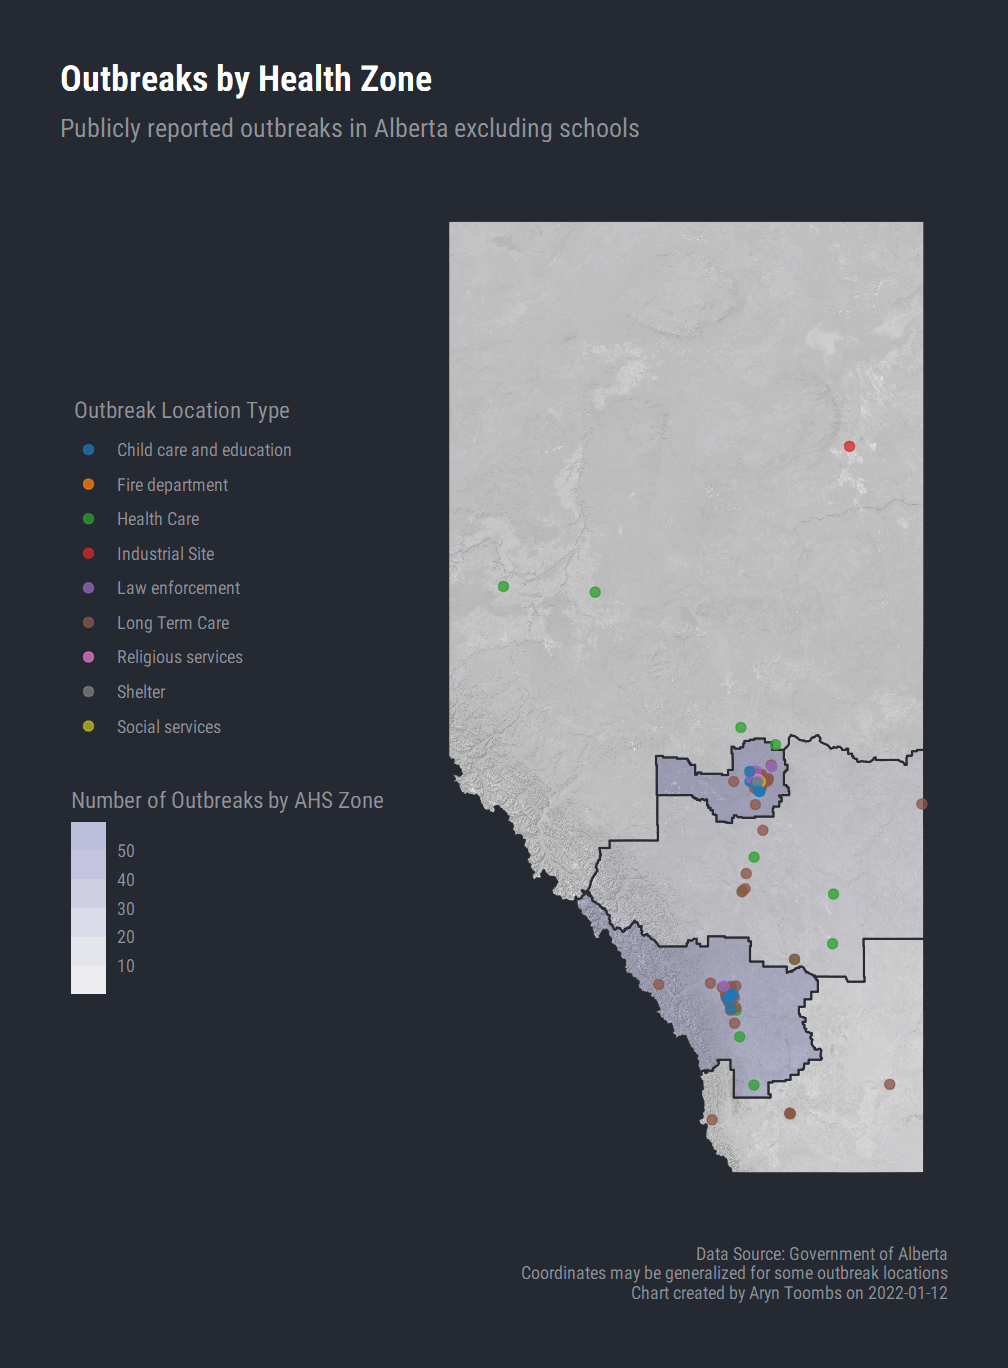
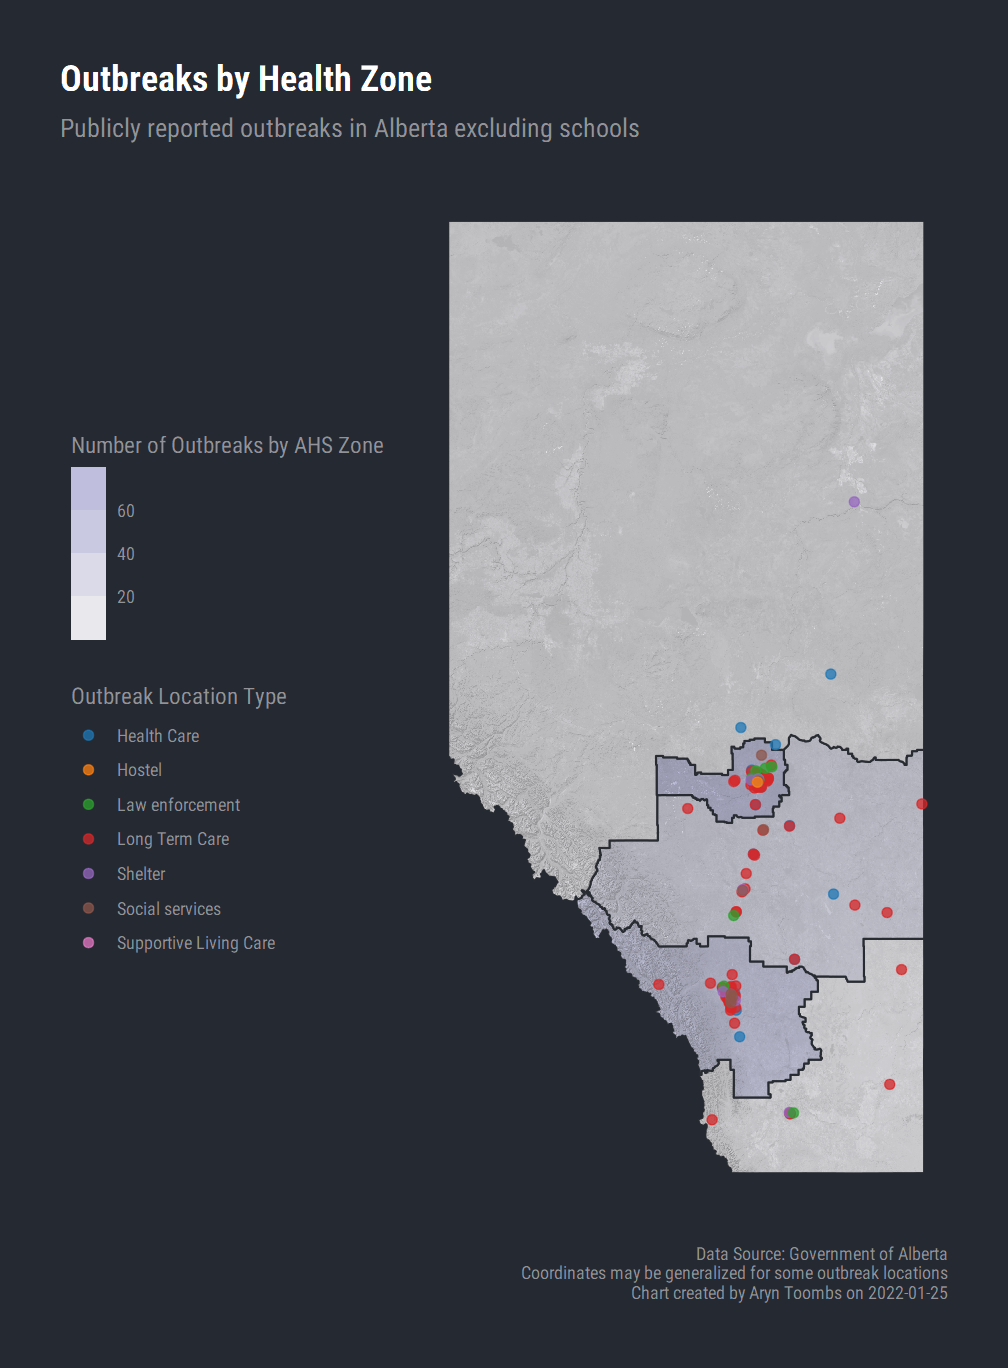
web

diff --git a/outbreaks/index.html b/outbreaks/index.html
@@ -170,7 +170,7 @@
       Calgary Zone
     </div>
     <div class="row box-bottom justify-content-center">
-      <h4>43</h4>
+      <h4>51</h4>
     </div>
   </div>
   <div class="col-sm ml-1 mr-1">
@@ -178,7 +178,7 @@
       Edmonton Zone
     </div>
     <div class="row box-bottom justify-content-center">
-      <h4>52</h4>
+      <h4>66</h4>
     </div>
   </div>
   <div class="col-sm ml-1 mr-1">
@@ -186,7 +186,7 @@
       South Zone
     </div>
     <div class="row box-bottom justify-content-center">
-      <h4>5</h4>
+      <h4>8</h4>
     </div>
   </div>
   <div class="col-sm ml-1 mr-1">
@@ -194,7 +194,7 @@
       Central Zone
     </div>
     <div class="row box-bottom justify-content-center">
-      <h4>13</h4>
+      <h4>30</h4>
     </div>
   </div>
   <div class="col-sm ml-1 mr-1">
@@ -202,12 +202,12 @@
       North Zone
     </div>
     <div class="row box-bottom justify-content-center">
-      <h4>5</h4>
+      <h4>4</h4>
     </div>
   </div>
 </div>
 <div class="row mb-3 pr-1 pt-1 justify-content-end">
-  <p class="m-1"><i class="bi bi-info-circle-fill"></i> Covid-19 outbreaks (not including schools, see below) current as of Wed, Jan 12, 2022. AHS non-school outbreak data updated on Tuesdays and Fridays.</p>
+  <p class="m-1"><i class="bi bi-info-circle-fill"></i> Covid-19 outbreaks (not including schools, see below) current as of Tue, Jan 25, 2022. AHS non-school outbreak data updated on Tuesdays and Fridays.</p>
 </div>
   <div class="row pl-3">
     <h4 class="body-display">Outbreak Charts</h4>
